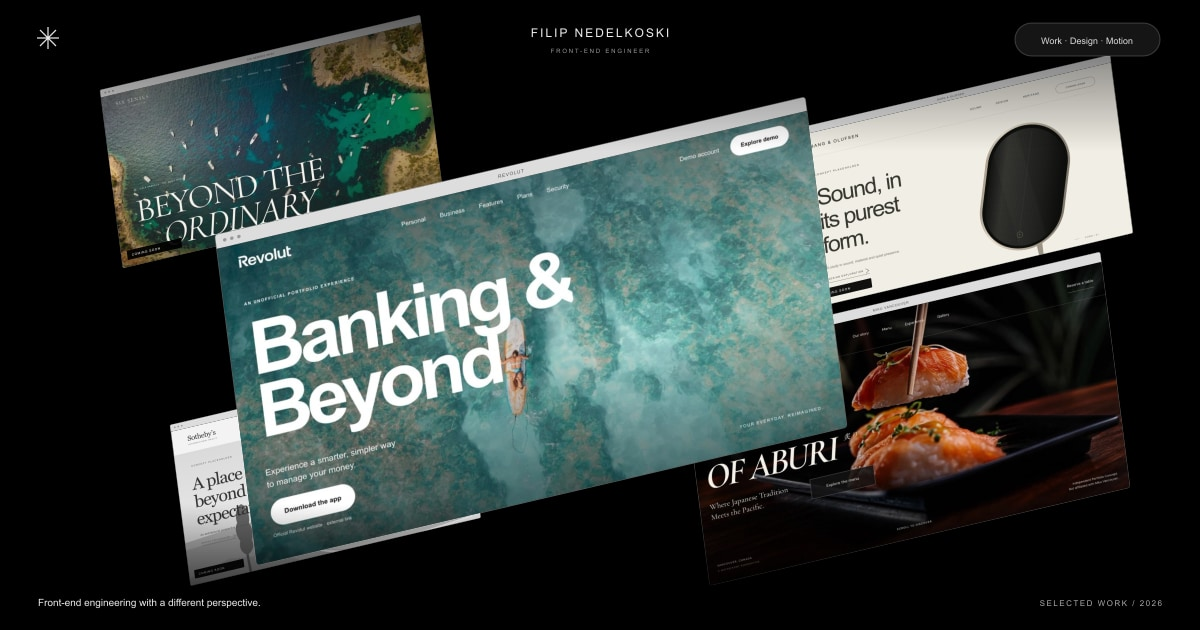
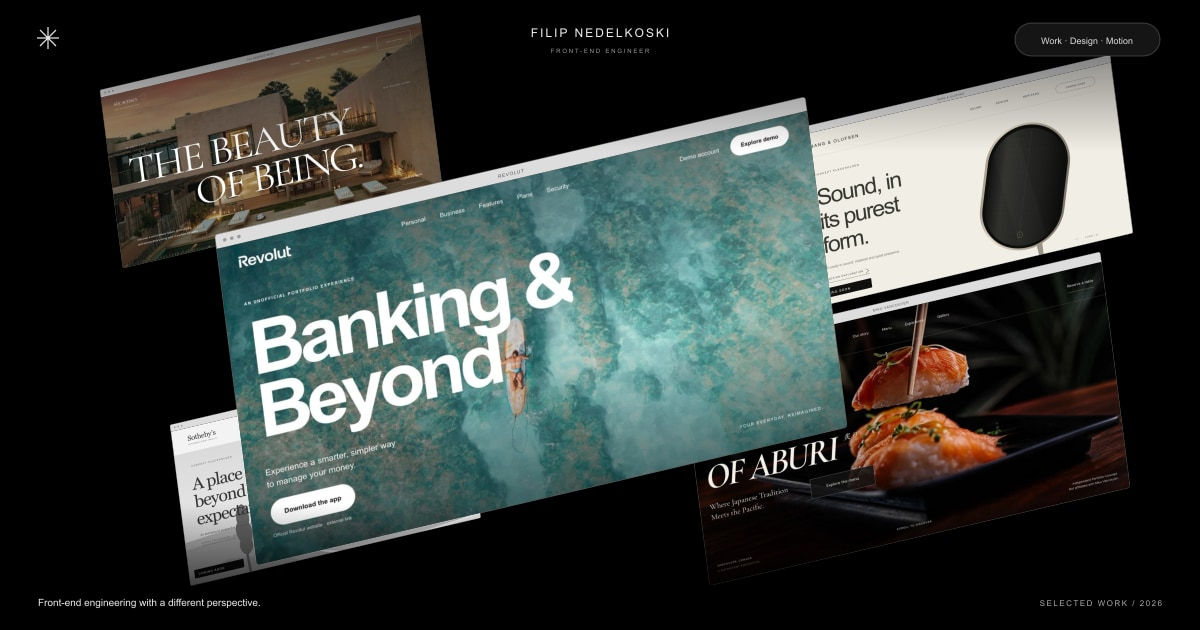
Publish Six Senses in the portfolio exhibition

Changed region(s): [[0.0617, 0.0302, 0.37, 0.4222]]

diff --git a/index.html b/index.html
@@ -1,4 +1,4 @@
 <!DOCTYPE html><html lang="en"> <head><meta charset="UTF-8"><meta name="viewport" content="width=device-width, initial-scale=1.0, viewport-fit=cover"><meta name="theme-color" content="#000000"><meta name="color-scheme" content="dark"><title>Filip Nedelkoski — Front-End Engineer</title><meta name="description" content="Selected digital experiences by Filip Nedelkoski. Premium frontend engineering, thoughtful design, and immersive interactions. Enter the work."><link rel="canonical" href="https://nedelkoskifilip6.github.io/"><link rel="icon" href="/favicon-portfolio.svg" type="image/svg+xml"><link rel="apple-touch-icon" href="/portfolio-media/apple-touch-icon.png"><link rel="preload" href="/portfolio-assets/dm-sans-latin-400-normal.CW0RaeGs.woff2" as="font" type="font/woff2" crossorigin><link rel="preload" href="/portfolio-assets/dm-mono-latin-400-normal.4GdczIuU.woff2" as="font" type="font/woff2" crossorigin><meta property="og:type" content="website"><meta property="og:title" content="Filip Nedelkoski — Front-End Engineer"><meta property="og:description" content="A digital exhibition of design, engineering and motion. Selected independent portfolio concepts."><meta property="og:url" content="https://nedelkoskifilip6.github.io/"><meta property="og:image" content="https://nedelkoskifilip6.github.io/social-portfolio.jpg"><meta name="twitter:card" content="summary_large_image"><script>
       document.documentElement.classList.add('has-js','is-loading');
       setTimeout(() => document.documentElement.classList.remove('is-loading'), 2300);
-    </script><link rel="stylesheet" href="/portfolio-assets/index.ukMhPsn-.css"></head> <body> <a class="skip-link" href="#project-index" data-switch-view="index">Skip to project index</a> <header class="site-nav" aria-label="Portfolio navigation"> <nav class="nav-pill" aria-label="Main navigation"> <a href="#work" class="nav-symbol" aria-label="Filip Nedelkoski, selected work" data-work><svg aria-hidden="true" viewBox="0 0 28 28"><path d="M14 2v24M2 14h24M5.5 5.5l17 17M5.5 22.5l17-17"></path></svg></a> <a href="#work" class="nav-work is-current" data-work>Work</a> <button type="button" data-panel="about-panel">About</button> <button type="button" data-panel="contact-panel">Contact</button> </nav> <a class="nav-identity" href="#work" data-work>FILIP NEDELKOSKI<span>FRONT-END ENGINEER</span></a> <div class="nav-right"><button class="contact-pill" type="button" data-panel="contact-panel">Let’s talk <span aria-hidden="true">↗</span></button><a class="globe-link" href="https://github.com/nedelkoskifilip6" target="_blank" rel="noopener noreferrer" aria-label="Visit Filip’s verified GitHub profile"><svg aria-hidden="true" viewBox="0 0 24 24"><circle cx="12" cy="12" r="8.5"></circle><ellipse cx="12" cy="12" rx="3.7" ry="8.5"></ellipse><path d="M3.5 12h17M5 7.5h14M5 16.5h14"></path></svg></a></div> </header> <main id="main"> <h1 class="sr-only">Filip Nedelkoski — Front-End Engineer. An exhibition of selected work.</h1> <section class="exhibition" id="work" aria-label="Three-dimensional project exhibition"> <div class="gallery-stage"><div class="scene-camera" id="scene-camera"> <div class="project-plane plane-revolut" data-project="revolut" data-status="live" data-index="0"> <a class="project-surface" href="https://nedelkoskifilip6.github.io/revolut-finance/" data-project-link="revolut" aria-label="Enter Revolut — Modern Fintech / Futuristic Minimalism"> <div class="window-bar" aria-hidden="true"><span class="window-dots"><i></i><i></i><i></i></span><span>/revolut-finance/</span><span>↗</span></div> <img class="project-image" src="/portfolio-media/revolut-1600.webp" srcset="/portfolio-media/revolut-800.webp 800w, /portfolio-media/revolut-1600.webp 1600w, /portfolio-media/revolut-2400.webp 2400w" sizes="(max-width:700px) 90vw, (min-width:1600px) 780px, 49vw" width="1600" height="1000" alt="Actual homepage screenshot of Filip’s Revolut Finance portfolio concept" loading="eager" decoding="async" fetchpriority="high" draggable="false"> <div class="preview-overlay"><span class="preview-copy"><strong>REVOLUT</strong><span>Modern Fintech / Futuristic Minimalism</span><small>VIEW PROJECT ↗</small></span><span class="enter-arrow" aria-hidden="true">↗</span></div> </a> <div class="plane-caption" aria-hidden="true"><span>01 / REVOLUT</span><span>WEB EXPERIENCE</span></div> </div><div class="project-plane plane-miku" data-project="miku" data-status="live" data-index="1"> <a class="project-surface" href="https://nedelkoskifilip6.github.io/miku-vancouver/" data-project-link="miku" aria-label="Enter Miku Vancouver — Fine Dining / Japanese Elegance"> <div class="window-bar" aria-hidden="true"><span class="window-dots"><i></i><i></i><i></i></span><span>/miku-vancouver/</span><span>↗</span></div> <img class="project-image" src="/portfolio-media/miku-1600.webp" srcset="/portfolio-media/miku-800.webp 800w, /portfolio-media/miku-1600.webp 1600w, /portfolio-media/miku-2400.webp 2400w" sizes="(max-width:700px) 90vw, (min-width:1600px) 780px, 49vw" width="1600" height="1000" alt="Actual homepage screenshot of Filip’s Miku Vancouver portfolio concept" loading="lazy" decoding="async" fetchpriority="auto" draggable="false"> <div class="preview-overlay"><span class="preview-copy"><strong>MIKU VANCOUVER</strong><span>Fine Dining / Japanese Elegance</span><small>VIEW PROJECT ↗</small></span><span class="enter-arrow" aria-hidden="true">↗</span></div> </a> <div class="plane-caption" aria-hidden="true"><span>02 / MIKU VANCOUVER</span><span>WEB EXPERIENCE</span></div> </div><div class="project-plane plane-six-senses" data-project="six-senses" data-status="coming-soon" data-index="2"> <button type="button" class="project-surface pending-surface" data-focus-project="2" aria-label="Six Senses Ibiza, coming soon. Built locally · not published"> <div class="window-bar" aria-hidden="true"><span class="window-dots"><i></i><i></i><i></i></span><span>INDEPENDENT DESIGN STUDY</span><span>—</span></div> <img class="project-image" src="/portfolio-media/six-senses-1440.webp" srcset="/portfolio-media/six-senses-800.webp 800w, /portfolio-media/six-senses-1440.webp 1440w" sizes="(max-width:700px) 90vw, (min-width:1600px) 780px, 49vw" width="1600" height="1000" alt="Actual screenshot of Filip’s unpublished Six Senses Ibiza concept" loading="eager" decoding="async" draggable="false"> <span class="coming-badge">COMING SOON <span aria-hidden="true">↗</span></span> </button> <div class="plane-caption" aria-hidden="true"><span>03 / SIX SENSES IBIZA</span><span>COMING SOON</span></div> </div><div class="project-plane plane-bang-olufsen" data-project="bang-olufsen" data-status="coming-soon" data-index="3"> <button type="button" class="project-surface pending-surface" data-focus-project="3" aria-label="Bang &#38; Olufsen, coming soon. Concept placeholder · coming soon"> <div class="window-bar" aria-hidden="true"><span class="window-dots"><i></i><i></i><i></i></span><span>INDEPENDENT DESIGN STUDY</span><span>—</span></div> <img class="project-image" src="/portfolio-media/bang-concept.svg" sizes="(max-width:700px) 90vw, (min-width:1600px) 780px, 49vw" width="1600" height="1000" alt="Clearly labeled concept placeholder for a future Bang &#38; Olufsen design study" loading="lazy" decoding="async" draggable="false"> <span class="coming-badge">COMING SOON <span aria-hidden="true">↗</span></span> </button> <div class="plane-caption" aria-hidden="true"><span>04 / BANG &amp; OLUFSEN</span><span>COMING SOON</span></div> </div><div class="project-plane plane-sothebys" data-project="sothebys" data-status="coming-soon" data-index="4"> <button type="button" class="project-surface pending-surface" data-focus-project="4" aria-label="Sotheby’s, coming soon. Concept placeholder · coming soon"> <div class="window-bar" aria-hidden="true"><span class="window-dots"><i></i><i></i><i></i></span><span>INDEPENDENT DESIGN STUDY</span><span>—</span></div> <img class="project-image" src="/portfolio-media/sothebys-concept.svg" sizes="(max-width:700px) 90vw, (min-width:1600px) 780px, 49vw" width="1600" height="1000" alt="Clearly labeled concept placeholder for a future Sotheby’s International Realty design study" loading="lazy" decoding="async" draggable="false"> <span class="coming-badge">COMING SOON <span aria-hidden="true">↗</span></span> </button> <div class="plane-caption" aria-hidden="true"><span>05 / SOTHEBY’S INTERNATIONAL REALTY</span><span>COMING SOON</span></div> </div> </div></div> <div class="gallery-vignette" aria-hidden="true"></div> </section> <section class="index-layer" id="project-index" aria-labelledby="index-title" inert> <div class="index-heading"><span class="overline">SELECTED WORK / 2026</span><h2 id="index-title">The index<span>(05)</span></h2><p>Thoughtful design.<br> Considered engineering.</p></div> <div class="index-labels" aria-hidden="true"><span>NO. / PROJECT</span><span>DISCIPLINE</span><span>YEAR</span><span>STATUS</span><span></span></div> <div class="index-list" role="list"><div class="index-row is-live" role="listitem" data-index-project="revolut"> <a class="index-project-link" data-project-link="revolut" href="https://nedelkoskifilip6.github.io/revolut-finance/"><span class="index-project-name"><span class="index-number">01</span><span class="index-thumb"><img src="/portfolio-media/revolut-1600.webp" alt="" width="120" height="80" loading="lazy"></span><span>REVOLUT</span></span><span class="index-category">Modern Fintech / Futuristic Minimalism</span><span class="index-year">2026</span><span class="index-status"><i></i>Live website</span><span class="index-arrow" aria-hidden="true">↗</span></a> </div><div class="index-row is-live" role="listitem" data-index-project="miku"> <a class="index-project-link" data-project-link="miku" href="https://nedelkoskifilip6.github.io/miku-vancouver/"><span class="index-project-name"><span class="index-number">02</span><span class="index-thumb"><img src="/portfolio-media/miku-1600.webp" alt="" width="120" height="80" loading="lazy"></span><span>MIKU VANCOUVER</span></span><span class="index-category">Fine Dining / Japanese Elegance</span><span class="index-year">2026</span><span class="index-status"><i></i>Live website</span><span class="index-arrow" aria-hidden="true">↗</span></a> </div><div class="index-row is-pending" role="listitem" data-index-project="six-senses"> <div class="index-project-link"><span class="index-project-name"><span class="index-number">03</span><span class="index-thumb"><img src="/portfolio-media/six-senses-1440.webp" alt="" width="120" height="80" loading="lazy"></span><span>SIX SENSES IBIZA</span></span><span class="index-category">Luxury Hospitality / Elegant &amp; Natural Minimalism</span><span class="index-year">2026</span><span class="index-status">Coming soon<span class="status-detail">Built locally · not published</span></span><span class="index-arrow" aria-hidden="true">—</span></div> </div><div class="index-row is-pending" role="listitem" data-index-project="bang-olufsen"> <div class="index-project-link"><span class="index-project-name"><span class="index-number">04</span><span class="index-thumb"><img src="/portfolio-media/bang-concept.svg" alt="" width="120" height="80" loading="lazy"></span><span>BANG &amp; OLUFSEN</span></span><span class="index-category">Luxury Technology / Scandinavian Minimalism</span><span class="index-year">2026</span><span class="index-status">Coming soon<span class="status-detail">Concept placeholder · coming soon</span></span><span class="index-arrow" aria-hidden="true">—</span></div> </div><div class="index-row is-pending" role="listitem" data-index-project="sothebys"> <div class="index-project-link"><span class="index-project-name"><span class="index-number">05</span><span class="index-thumb"><img src="/portfolio-media/sothebys-concept.svg" alt="" width="120" height="80" loading="lazy"></span><span>SOTHEBY’S INTERNATIONAL REALTY</span></span><span class="index-category">Luxury Real Estate / Architectural Minimalism</span><span class="index-year">2026</span><span class="index-status">Coming soon<span class="status-detail">Concept placeholder · coming soon</span></span><span class="index-arrow" aria-hidden="true">—</span></div> </div></div> <p class="index-footnote">Independent portfolio concepts. No affiliation with the featured brands.</p> </section> </main> <aside class="project-position" aria-label="Select a project in the exhibition"><button type="button" data-jump-project="0" aria-label="Focus Revolut" aria-current="true"><span>01</span><i></i></button><button type="button" data-jump-project="1" aria-label="Focus Miku Vancouver"><span>02</span><i></i></button><button type="button" data-jump-project="2" aria-label="Focus Six Senses Ibiza"><span>03</span><i></i></button><button type="button" data-jump-project="3" aria-label="Focus Bang &#38; Olufsen"><span>04</span><i></i></button><button type="button" data-jump-project="4" aria-label="Focus Sotheby’s"><span>05</span><i></i></button></aside> <footer class="exhibition-hud"> <div class="hud-left"><span class="overline">INDEPENDENT BY DESIGN.</span><p>Front-end engineering<br><span>with a different perspective.</span></p><span class="hud-year">© 2026 / FN</span></div> <div class="current-project"><div><span class="current-number">01</span><span class="current-divider"></span><span class="current-title">REVOLUT</span><span class="current-status">LIVE WEBSITE</span></div><p class="current-category">Modern Fintech / Futuristic Minimalism</p><div class="progress-track" aria-hidden="true"><span></span></div></div> <div class="hud-right"><div class="view-switch" role="group" aria-label="Project display mode"><button type="button" data-view="overview" aria-pressed="true"><svg aria-hidden="true" viewBox="0 0 16 16"><path d="m2 5 6-3 6 3-6 3-6-3Zm0 3 6 3 6-3M2 11l6 3 6-3"></path></svg>Overview</button><span aria-hidden="true"></span><button type="button" data-view="index" aria-pressed="false"><svg aria-hidden="true" viewBox="0 0 16 16"><path d="M2 4h12M2 8h12M2 12h12"></path></svg>Index</button></div><span class="scroll-instruction">SCROLL TO EXPLORE <span aria-hidden="true">↓</span></span></div> </footer> <dialog class="info-panel" id="about-panel" aria-labelledby="about-title"><div class="panel-top"><span class="overline">ABOUT / FILIP NEDELKOSKI</span><button class="panel-close" type="button" aria-label="Close About">Close <span aria-hidden="true">✕</span></button></div><div class="about-body"><span class="overline">DESIGN MEETS ENGINEERING.</span><h2 id="about-title">FRONT-END<br><span>ENGINEER.</span></h2><div class="about-details"><h3>FILIP<br> NEDELKOSKI</h3><div><p class="about-intro">I create premium digital experiences through modern frontend development, thoughtful design, and immersive interactions.</p><ul class="skill-list"><li>Premium Website Development</li><li>Creative Front-End Engineering</li><li>Interactive Web Experiences</li><li>Responsive Design</li><li>Motion & Animation</li></ul></div></div></div><div class="panel-footer"><span>THOUGHTFULLY DESIGNED. PRECISELY BUILT.</span><button type="button" data-panel="contact-panel">Let’s create something <span aria-hidden="true">↗</span></button></div></dialog> <dialog class="info-panel contact-panel" id="contact-panel" aria-labelledby="contact-title"><div class="panel-top"><span class="overline">CONTACT / START A CONVERSATION</span><button class="panel-close" type="button" aria-label="Close Contact">Close <span aria-hidden="true">✕</span></button></div><div class="contact-body"><span class="overline">GOOD WORK STARTS WITH A CONVERSATION.</span><h2 id="contact-title">LET’S CREATE<br>SOMETHING<br><span>EXCEPTIONAL.</span></h2><div class="contact-links"> <div class="unavailable-contact"><span>Email</span><span>Details to follow</span><span aria-hidden="true">—</span></div> <div class="unavailable-contact"><span>LinkedIn</span><span>Details to follow</span><span aria-hidden="true">—</span></div> <a href="https://github.com/nedelkoskifilip6" target="_blank" rel="noopener noreferrer"><span>GitHub</span><span>@nedelkoskifilip6</span><span aria-hidden="true">↗</span></a> </div></div><div class="panel-footer"><span>FILIP NEDELKOSKI / FRONT-END ENGINEER</span><span>© 2026</span></div></dialog> <p class="sr-only" id="project-announcement" aria-live="polite" aria-atomic="true"></p> <div class="opening-portal" id="opening-portal" aria-hidden="true"></div> <noscript><div class="noscript-note">Filip Nedelkoski — Front-End Engineer. <a data-project-link="revolut" href="https://nedelkoskifilip6.github.io/revolut-finance/">View Revolut ↗</a> · <a data-project-link="miku" href="https://nedelkoskifilip6.github.io/miku-vancouver/">View Miku Vancouver ↗</a> · <a href="https://github.com/nedelkoskifilip6">Connect on GitHub ↗</a></div></noscript> <script type="module" src="/portfolio-assets/index.astro_astro_type_script_index_0_lang.DMDe-NGf.js"></script> </body> </html>
+    </script><link rel="stylesheet" href="/portfolio-assets/index.ukMhPsn-.css"></head> <body> <a class="skip-link" href="#project-index" data-switch-view="index">Skip to project index</a> <header class="site-nav" aria-label="Portfolio navigation"> <nav class="nav-pill" aria-label="Main navigation"> <a href="#work" class="nav-symbol" aria-label="Filip Nedelkoski, selected work" data-work><svg aria-hidden="true" viewBox="0 0 28 28"><path d="M14 2v24M2 14h24M5.5 5.5l17 17M5.5 22.5l17-17"></path></svg></a> <a href="#work" class="nav-work is-current" data-work>Work</a> <button type="button" data-panel="about-panel">About</button> <button type="button" data-panel="contact-panel">Contact</button> </nav> <a class="nav-identity" href="#work" data-work>FILIP NEDELKOSKI<span>FRONT-END ENGINEER</span></a> <div class="nav-right"><button class="contact-pill" type="button" data-panel="contact-panel">Let’s talk <span aria-hidden="true">↗</span></button><a class="globe-link" href="https://github.com/nedelkoskifilip6" target="_blank" rel="noopener noreferrer" aria-label="Visit Filip’s verified GitHub profile"><svg aria-hidden="true" viewBox="0 0 24 24"><circle cx="12" cy="12" r="8.5"></circle><ellipse cx="12" cy="12" rx="3.7" ry="8.5"></ellipse><path d="M3.5 12h17M5 7.5h14M5 16.5h14"></path></svg></a></div> </header> <main id="main"> <h1 class="sr-only">Filip Nedelkoski — Front-End Engineer. An exhibition of selected work.</h1> <section class="exhibition" id="work" aria-label="Three-dimensional project exhibition"> <div class="gallery-stage"><div class="scene-camera" id="scene-camera"> <div class="project-plane plane-revolut" data-project="revolut" data-status="live" data-index="0"> <a class="project-surface" href="https://nedelkoskifilip6.github.io/revolut-finance/" data-project-link="revolut" aria-label="Enter Revolut — Modern Fintech / Futuristic Minimalism"> <div class="window-bar" aria-hidden="true"><span class="window-dots"><i></i><i></i><i></i></span><span>/revolut-finance/</span><span>↗</span></div> <img class="project-image" src="/portfolio-media/revolut-1600.webp" srcset="/portfolio-media/revolut-800.webp 800w, /portfolio-media/revolut-1600.webp 1600w, /portfolio-media/revolut-2400.webp 2400w" sizes="(max-width:700px) 90vw, (min-width:1600px) 780px, 49vw" width="1600" height="1000" alt="Actual homepage screenshot of Filip’s Revolut Finance portfolio concept" loading="eager" decoding="async" fetchpriority="high" draggable="false"> <div class="preview-overlay"><span class="preview-copy"><strong>REVOLUT</strong><span>Modern Fintech / Futuristic Minimalism</span><small>VIEW PROJECT ↗</small></span><span class="enter-arrow" aria-hidden="true">↗</span></div> </a> <div class="plane-caption" aria-hidden="true"><span>01 / REVOLUT</span><span>WEB EXPERIENCE</span></div> </div><div class="project-plane plane-miku" data-project="miku" data-status="live" data-index="1"> <a class="project-surface" href="https://nedelkoskifilip6.github.io/miku-vancouver/" data-project-link="miku" aria-label="Enter Miku Vancouver — Fine Dining / Japanese Elegance"> <div class="window-bar" aria-hidden="true"><span class="window-dots"><i></i><i></i><i></i></span><span>/miku-vancouver/</span><span>↗</span></div> <img class="project-image" src="/portfolio-media/miku-1600.webp" srcset="/portfolio-media/miku-800.webp 800w, /portfolio-media/miku-1600.webp 1600w, /portfolio-media/miku-2400.webp 2400w" sizes="(max-width:700px) 90vw, (min-width:1600px) 780px, 49vw" width="1600" height="1000" alt="Actual homepage screenshot of Filip’s Miku Vancouver portfolio concept" loading="lazy" decoding="async" fetchpriority="auto" draggable="false"> <div class="preview-overlay"><span class="preview-copy"><strong>MIKU VANCOUVER</strong><span>Fine Dining / Japanese Elegance</span><small>VIEW PROJECT ↗</small></span><span class="enter-arrow" aria-hidden="true">↗</span></div> </a> <div class="plane-caption" aria-hidden="true"><span>02 / MIKU VANCOUVER</span><span>WEB EXPERIENCE</span></div> </div><div class="project-plane plane-six-senses" data-project="six-senses" data-status="live" data-index="2"> <a class="project-surface" href="https://nedelkoskifilip6.github.io/six-senses-ibiza/" data-project-link="six-senses" aria-label="Enter Six Senses Ibiza — Luxury Hospitality / Elegant &#38; Natural Minimalism"> <div class="window-bar" aria-hidden="true"><span class="window-dots"><i></i><i></i><i></i></span><span>/six-senses-ibiza/</span><span>↗</span></div> <img class="project-image" src="/portfolio-media/six-senses-1440.webp" srcset="/portfolio-media/six-senses-800.webp 800w, /portfolio-media/six-senses-1440.webp 1440w" sizes="(max-width:700px) 90vw, (min-width:1600px) 780px, 49vw" width="1600" height="1000" alt="Actual homepage screenshot of Filip’s Six Senses Ibiza portfolio concept" loading="lazy" decoding="async" fetchpriority="auto" draggable="false"> <div class="preview-overlay"><span class="preview-copy"><strong>SIX SENSES IBIZA</strong><span>Luxury Hospitality / Elegant &amp; Natural Minimalism</span><small>VIEW PROJECT ↗</small></span><span class="enter-arrow" aria-hidden="true">↗</span></div> </a> <div class="plane-caption" aria-hidden="true"><span>03 / SIX SENSES IBIZA</span><span>WEB EXPERIENCE</span></div> </div><div class="project-plane plane-bang-olufsen" data-project="bang-olufsen" data-status="coming-soon" data-index="3"> <button type="button" class="project-surface pending-surface" data-focus-project="3" aria-label="Bang &#38; Olufsen, coming soon. Concept placeholder · coming soon"> <div class="window-bar" aria-hidden="true"><span class="window-dots"><i></i><i></i><i></i></span><span>INDEPENDENT DESIGN STUDY</span><span>—</span></div> <img class="project-image" src="/portfolio-media/bang-concept.svg" sizes="(max-width:700px) 90vw, (min-width:1600px) 780px, 49vw" width="1600" height="1000" alt="Clearly labeled concept placeholder for a future Bang &#38; Olufsen design study" loading="lazy" decoding="async" draggable="false"> <span class="coming-badge">COMING SOON <span aria-hidden="true">↗</span></span> </button> <div class="plane-caption" aria-hidden="true"><span>04 / BANG &amp; OLUFSEN</span><span>COMING SOON</span></div> </div><div class="project-plane plane-sothebys" data-project="sothebys" data-status="coming-soon" data-index="4"> <button type="button" class="project-surface pending-surface" data-focus-project="4" aria-label="Sotheby’s, coming soon. Concept placeholder · coming soon"> <div class="window-bar" aria-hidden="true"><span class="window-dots"><i></i><i></i><i></i></span><span>INDEPENDENT DESIGN STUDY</span><span>—</span></div> <img class="project-image" src="/portfolio-media/sothebys-concept.svg" sizes="(max-width:700px) 90vw, (min-width:1600px) 780px, 49vw" width="1600" height="1000" alt="Clearly labeled concept placeholder for a future Sotheby’s International Realty design study" loading="lazy" decoding="async" draggable="false"> <span class="coming-badge">COMING SOON <span aria-hidden="true">↗</span></span> </button> <div class="plane-caption" aria-hidden="true"><span>05 / SOTHEBY’S INTERNATIONAL REALTY</span><span>COMING SOON</span></div> </div> </div></div> <div class="gallery-vignette" aria-hidden="true"></div> </section> <section class="index-layer" id="project-index" aria-labelledby="index-title" inert> <div class="index-heading"><span class="overline">SELECTED WORK / 2026</span><h2 id="index-title">The index<span>(05)</span></h2><p>Thoughtful design.<br> Considered engineering.</p></div> <div class="index-labels" aria-hidden="true"><span>NO. / PROJECT</span><span>DISCIPLINE</span><span>YEAR</span><span>STATUS</span><span></span></div> <div class="index-list" role="list"><div class="index-row is-live" role="listitem" data-index-project="revolut"> <a class="index-project-link" data-project-link="revolut" href="https://nedelkoskifilip6.github.io/revolut-finance/"><span class="index-project-name"><span class="index-number">01</span><span class="index-thumb"><img src="/portfolio-media/revolut-1600.webp" alt="" width="120" height="80" loading="lazy"></span><span>REVOLUT</span></span><span class="index-category">Modern Fintech / Futuristic Minimalism</span><span class="index-year">2026</span><span class="index-status"><i></i>Live website</span><span class="index-arrow" aria-hidden="true">↗</span></a> </div><div class="index-row is-live" role="listitem" data-index-project="miku"> <a class="index-project-link" data-project-link="miku" href="https://nedelkoskifilip6.github.io/miku-vancouver/"><span class="index-project-name"><span class="index-number">02</span><span class="index-thumb"><img src="/portfolio-media/miku-1600.webp" alt="" width="120" height="80" loading="lazy"></span><span>MIKU VANCOUVER</span></span><span class="index-category">Fine Dining / Japanese Elegance</span><span class="index-year">2026</span><span class="index-status"><i></i>Live website</span><span class="index-arrow" aria-hidden="true">↗</span></a> </div><div class="index-row is-live" role="listitem" data-index-project="six-senses"> <a class="index-project-link" data-project-link="six-senses" href="https://nedelkoskifilip6.github.io/six-senses-ibiza/"><span class="index-project-name"><span class="index-number">03</span><span class="index-thumb"><img src="/portfolio-media/six-senses-1440.webp" alt="" width="120" height="80" loading="lazy"></span><span>SIX SENSES IBIZA</span></span><span class="index-category">Luxury Hospitality / Elegant &amp; Natural Minimalism</span><span class="index-year">2026</span><span class="index-status"><i></i>Live website</span><span class="index-arrow" aria-hidden="true">↗</span></a> </div><div class="index-row is-pending" role="listitem" data-index-project="bang-olufsen"> <div class="index-project-link"><span class="index-project-name"><span class="index-number">04</span><span class="index-thumb"><img src="/portfolio-media/bang-concept.svg" alt="" width="120" height="80" loading="lazy"></span><span>BANG &amp; OLUFSEN</span></span><span class="index-category">Luxury Technology / Scandinavian Minimalism</span><span class="index-year">2026</span><span class="index-status">Coming soon<span class="status-detail">Concept placeholder · coming soon</span></span><span class="index-arrow" aria-hidden="true">—</span></div> </div><div class="index-row is-pending" role="listitem" data-index-project="sothebys"> <div class="index-project-link"><span class="index-project-name"><span class="index-number">05</span><span class="index-thumb"><img src="/portfolio-media/sothebys-concept.svg" alt="" width="120" height="80" loading="lazy"></span><span>SOTHEBY’S INTERNATIONAL REALTY</span></span><span class="index-category">Luxury Real Estate / Architectural Minimalism</span><span class="index-year">2026</span><span class="index-status">Coming soon<span class="status-detail">Concept placeholder · coming soon</span></span><span class="index-arrow" aria-hidden="true">—</span></div> </div></div> <p class="index-footnote">Independent portfolio concepts. No affiliation with the featured brands.</p> </section> </main> <aside class="project-position" aria-label="Select a project in the exhibition"><button type="button" data-jump-project="0" aria-label="Focus Revolut" aria-current="true"><span>01</span><i></i></button><button type="button" data-jump-project="1" aria-label="Focus Miku Vancouver"><span>02</span><i></i></button><button type="button" data-jump-project="2" aria-label="Focus Six Senses Ibiza"><span>03</span><i></i></button><button type="button" data-jump-project="3" aria-label="Focus Bang &#38; Olufsen"><span>04</span><i></i></button><button type="button" data-jump-project="4" aria-label="Focus Sotheby’s"><span>05</span><i></i></button></aside> <footer class="exhibition-hud"> <div class="hud-left"><span class="overline">INDEPENDENT BY DESIGN.</span><p>Front-end engineering<br><span>with a different perspective.</span></p><span class="hud-year">© 2026 / FN</span></div> <div class="current-project"><div><span class="current-number">01</span><span class="current-divider"></span><span class="current-title">REVOLUT</span><span class="current-status">LIVE WEBSITE</span></div><p class="current-category">Modern Fintech / Futuristic Minimalism</p><div class="progress-track" aria-hidden="true"><span></span></div></div> <div class="hud-right"><div class="view-switch" role="group" aria-label="Project display mode"><button type="button" data-view="overview" aria-pressed="true"><svg aria-hidden="true" viewBox="0 0 16 16"><path d="m2 5 6-3 6 3-6 3-6-3Zm0 3 6 3 6-3M2 11l6 3 6-3"></path></svg>Overview</button><span aria-hidden="true"></span><button type="button" data-view="index" aria-pressed="false"><svg aria-hidden="true" viewBox="0 0 16 16"><path d="M2 4h12M2 8h12M2 12h12"></path></svg>Index</button></div><span class="scroll-instruction">SCROLL TO EXPLORE <span aria-hidden="true">↓</span></span></div> </footer> <dialog class="info-panel" id="about-panel" aria-labelledby="about-title"><div class="panel-top"><span class="overline">ABOUT / FILIP NEDELKOSKI</span><button class="panel-close" type="button" aria-label="Close About">Close <span aria-hidden="true">✕</span></button></div><div class="about-body"><span class="overline">DESIGN MEETS ENGINEERING.</span><h2 id="about-title">FRONT-END<br><span>ENGINEER.</span></h2><div class="about-details"><h3>FILIP<br> NEDELKOSKI</h3><div><p class="about-intro">I create premium digital experiences through modern frontend development, thoughtful design, and immersive interactions.</p><ul class="skill-list"><li>Premium Website Development</li><li>Creative Front-End Engineering</li><li>Interactive Web Experiences</li><li>Responsive Design</li><li>Motion & Animation</li></ul></div></div></div><div class="panel-footer"><span>THOUGHTFULLY DESIGNED. PRECISELY BUILT.</span><button type="button" data-panel="contact-panel">Let’s create something <span aria-hidden="true">↗</span></button></div></dialog> <dialog class="info-panel contact-panel" id="contact-panel" aria-labelledby="contact-title"><div class="panel-top"><span class="overline">CONTACT / START A CONVERSATION</span><button class="panel-close" type="button" aria-label="Close Contact">Close <span aria-hidden="true">✕</span></button></div><div class="contact-body"><span class="overline">GOOD WORK STARTS WITH A CONVERSATION.</span><h2 id="contact-title">LET’S CREATE<br>SOMETHING<br><span>EXCEPTIONAL.</span></h2><div class="contact-links"> <div class="unavailable-contact"><span>Email</span><span>Details to follow</span><span aria-hidden="true">—</span></div> <div class="unavailable-contact"><span>LinkedIn</span><span>Details to follow</span><span aria-hidden="true">—</span></div> <a href="https://github.com/nedelkoskifilip6" target="_blank" rel="noopener noreferrer"><span>GitHub</span><span>@nedelkoskifilip6</span><span aria-hidden="true">↗</span></a> </div></div><div class="panel-footer"><span>FILIP NEDELKOSKI / FRONT-END ENGINEER</span><span>© 2026</span></div></dialog> <p class="sr-only" id="project-announcement" aria-live="polite" aria-atomic="true"></p> <div class="opening-portal" id="opening-portal" aria-hidden="true"></div> <noscript><div class="noscript-note">Filip Nedelkoski — Front-End Engineer. <a data-project-link="revolut" href="https://nedelkoskifilip6.github.io/revolut-finance/">View Revolut ↗</a> · <a data-project-link="miku" href="https://nedelkoskifilip6.github.io/miku-vancouver/">View Miku Vancouver ↗</a> · <a href="https://github.com/nedelkoskifilip6">Connect on GitHub ↗</a></div></noscript> <script type="module" src="/portfolio-assets/index.astro_astro_type_script_index_0_lang.DQG8GK_V.js"></script> </body> </html>
